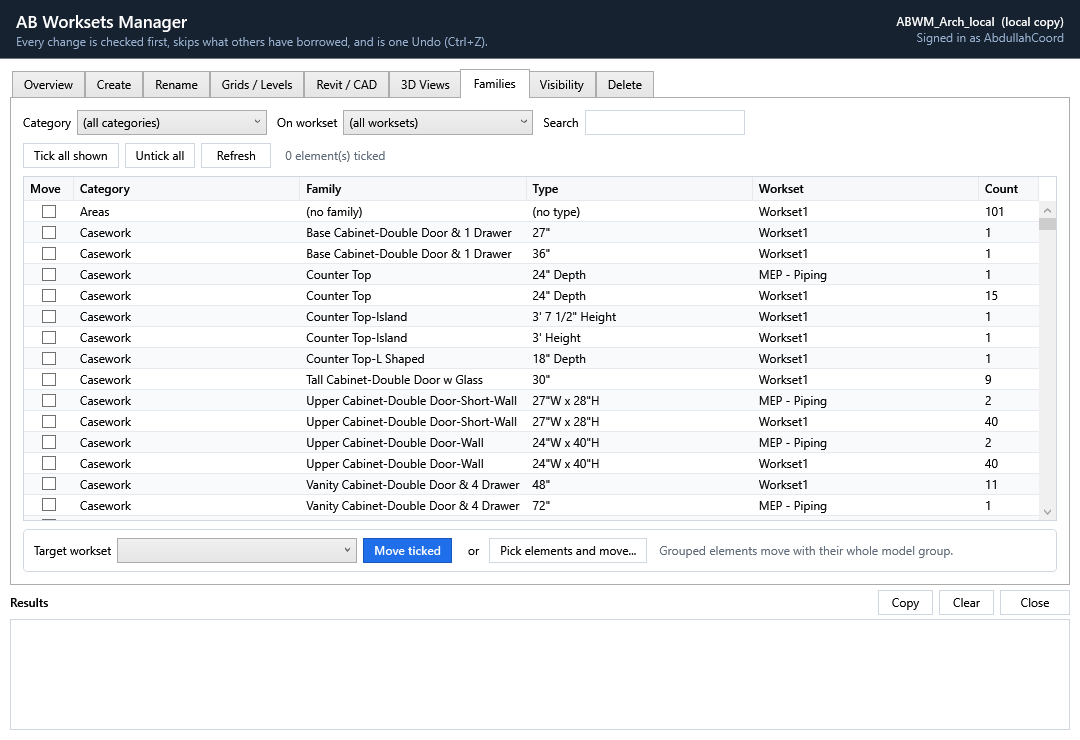
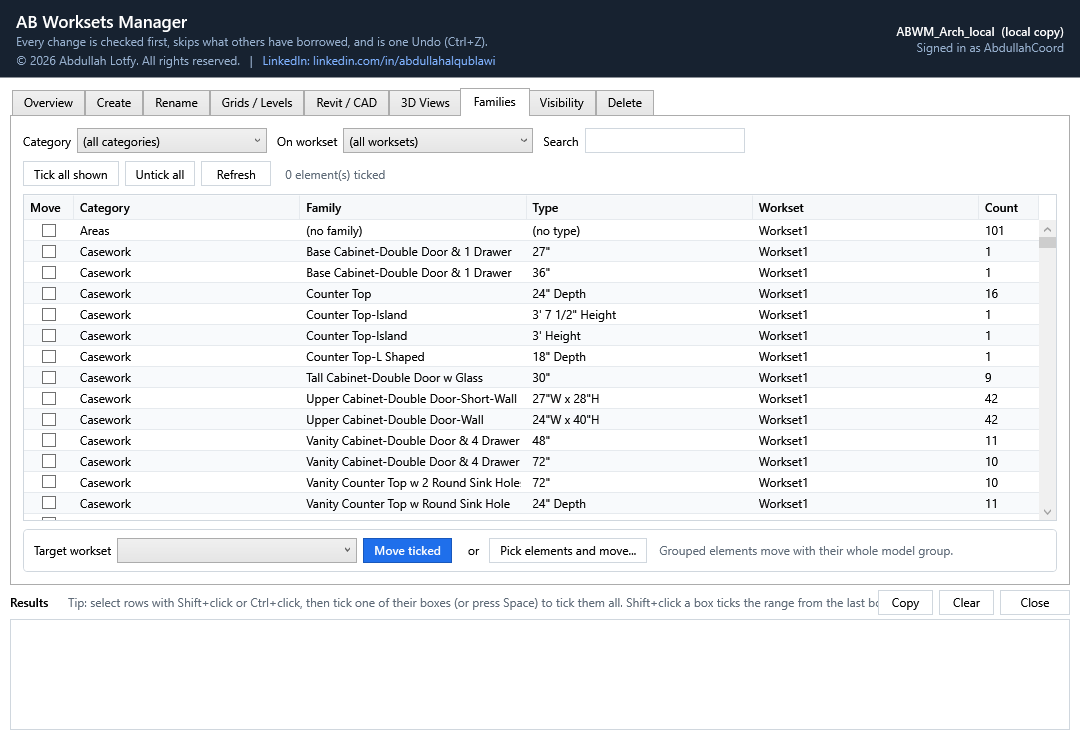
Shorter results tip so it never runs under the buttons; multi-tick test passed live

diff --git a/src/AB.WorksetManager.Addin/UI/ManagerWindow.xaml b/src/AB.WorksetManager.Addin/UI/ManagerWindow.xaml
@@ -536,9 +536,10 @@
                     <Button Content="Clear" Click="ResultsClear_Click" MinWidth="55" />
                     <Button Content="Close" Click="Close_Click" MinWidth="70" Margin="0" />
                 </StackPanel>
-                <TextBlock VerticalAlignment="Center">
+                <TextBlock VerticalAlignment="Center" TextTrimming="CharacterEllipsis" Margin="0,0,8,0"
+                           ToolTip="Select rows with Shift+click or Ctrl+click, then tick one of their boxes (or press Space) to tick them all. Shift+click a box ticks the range from the last box you clicked.">
                     <Run Text="Results" FontWeight="SemiBold" />
-                    <Run Text="     Tip: select rows with Shift+click or Ctrl+click, then tick one of their boxes (or press Space) to tick them all. Shift+click a box ticks the range from the last box." Foreground="{StaticResource Muted}" />
+                    <Run Text="     Tip: Shift+click or Ctrl+click rows, then tick one box or press Space to tick them all." Foreground="{StaticResource Muted}" />
                 </TextBlock>
             </DockPanel>
             <TextBox x:Name="ResultsBox" IsReadOnly="True" FontFamily="Consolas" FontSize="11.5" VerticalContentAlignment="Top"

diff --git a/CLAUDE.md b/CLAUDE.md
@@ -42,8 +42,9 @@ Part of the AB Adv Tools suite; the kit is vendored in `shared/ABAdvTools` (cano
   not focusable (so Space reaches the grid). Locked rows are never ticked.
 - Families search also matches the Workset column.
 - Banner line under the title: `AdvToolsBrand.Copyright` + LinkedIn link (`AdvToolsBrand.LinkedInUrl`).
-- `DevHarness.MultiTickTest` checks the selection/click/Space part in a briefly shown window; **not run yet**
-  (the bridge was off when 1.0.1 was built). Shift+click reads the real keyboard and is not simulated.
+- `DevHarness.MultiTickTest` (briefly shown real window, Delete tab) **passed in Revit 2026.5**: pressing a tick
+  box keeps a 3-row selection, its click ticks all 3, Space unticks / ticks them; banner text correct.
+  Shift+click reads the real keyboard and is not simulated.
 
 ## Layout
 
